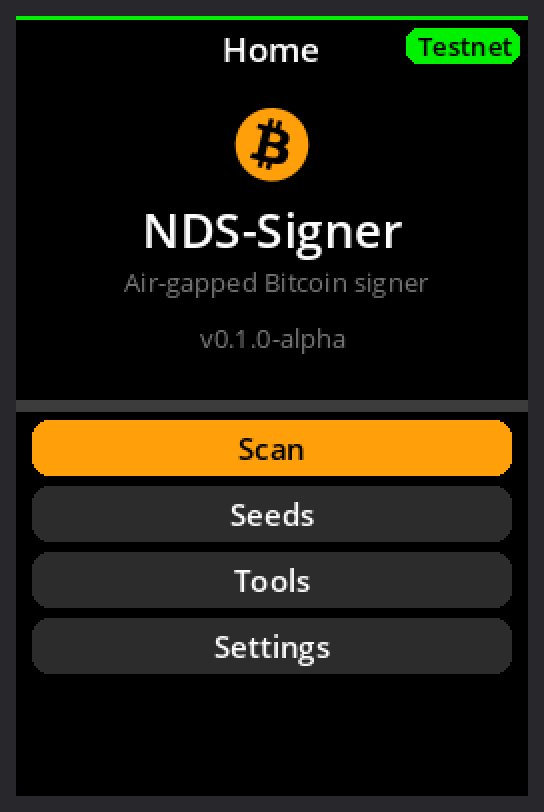
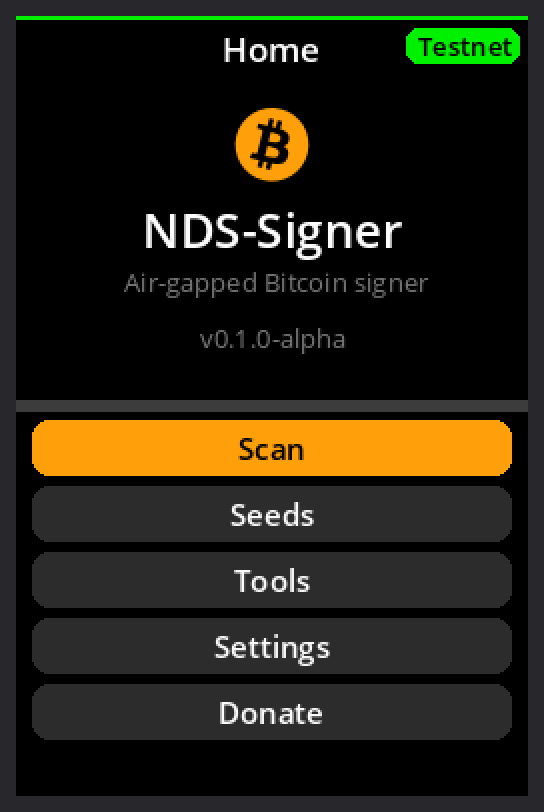
Donate on the Home menu, not in Settings
NDS-Signer's own Home menu (views/nds_views.py, UI_OVERRIDES of upstream's
view.MainMenuView) adds Donate at the end; upstream's Settings > Donate is
hidden. README screenshots updated.

Changed region(s): [[0.0312, 0.8313, 0.9688, 0.9236]]

diff --git a/tests/host/flow_check.py b/tests/host/flow_check.py
@@ -673,7 +673,7 @@ def run_battery_flow(prefix):
 
 
 def run_donate_flow():
-    """Settings -> Donate: the Bitcoin QR code encodes NDS-Signer's address
+    """Home -> Donate (not in Settings any more): the Bitcoin QR code encodes NDS-Signer's address
     (BIP-21), a tap on Lightning shows the Lightning address and its LNURL
     as a QR code; all exactly as published in README.md."""
     from seedsigner.gui.screens.settings_screens import (DONATE_LIGHTNING, DONATE_LNURL,
@@ -695,18 +695,31 @@ def run_donate_flow():
 
     def check():
         published = all(a in readme for a in (DONATE_ONCHAIN, DONATE_LIGHTNING, DONATE_LNURL))
-        ok = state.get("btc") and state.get("ln") and published
+        not_setting = state.get("page1") and state.get("page2")
+        ok = state.get("btc") and state.get("ln") and published and not_setting and state.get("home")
         RESULT["donate"] = ok
-        print("ok  " if ok else "FAIL", "donate flow: bitcoin %s, lightning %s, same as README %s"
-              % (state.get("btc"), state.get("ln"), published))
+        print("ok  " if ok else "FAIL", "donate flow (Home): bitcoin %s, lightning %s, same as README "
+              "%s, not in Settings %s, back to Home %s" % (state.get("btc"), state.get("ln"),
+                                                           published, not_setting, state.get("home")))
 
-    # Donate is the last but one option of Settings: up twice from the first
+    def home():  # Back from Donate returns to Home
+        state["home"] = "Scan" in "".join(op[3] for op in nds._dl[1] if op[0] == "text")
+
+    def no_donate_in_settings():
+        bottom = "".join(op[3] for op in nds._dl[1] if op[0] == "text")
+        nds._events[0:0] = [("key", nds.KEY_UP), ("wait", 2), ("call", page_two)]
+        state["page1"] = "Donate" not in bottom
+
+    def page_two():
+        bottom = "".join(op[3] for op in nds._dl[1] if op[0] == "text")
+        state["page2"] = "Donate" not in bottom and "Version" in bottom
+
     events = [("call", dump), ("tap_label", "Settings"), ("key", 0), ("wait", 2),
-              ("key", nds.KEY_UP), ("wait", 2), ("key", nds.KEY_UP), ("wait", 2),
-              ("key", nds.KEY_A)]
+              ("call", no_donate_in_settings), ("wait", 4), ("key", nds.KEY_B), ("wait", 2),
+              ("call", dump), ("tap_label", "Donate"), ("key", 0)]
     events += [("wait", 2), ("call", dump), ("call", onchain), ("tap_label", "Lightning"),
                ("wait", 4), ("key", 0), ("wait", 2), ("call", dump), ("call", lightning),
-               ("call", check), ("call", stop)]
+               ("key", nds.KEY_B), ("wait", 2), ("call", home), ("call", check), ("call", stop)]
     nds.sim_script(events)
     Controller.get_instance().start(initial_destination=Destination(MainMenuView))
 

diff --git a/mpy/overlay/seedsigner/views/nds_views.py b/mpy/overlay/seedsigner/views/nds_views.py
@@ -1,0 +1,48 @@
+# NDS-Signer - its own Home menu: upstream's, plus Donate at the end (a
+# donation is not a setting). tools/upy_transform.py (UI_OVERRIDES) rebinds
+# upstream's view.MainMenuView to the one here.
+from gettext import gettext as _
+
+from seedsigner.gui.components import SeedSignerIconConstants
+from seedsigner.gui.screens.screen import RET_CODE__POWER_BUTTON, ButtonOption
+from seedsigner.views.view import BackStackView, Destination, PowerOptionsView, View
+
+
+class MainMenuView(View):
+    SCAN = ButtonOption("Scan", SeedSignerIconConstants.SCAN)
+    SEEDS = ButtonOption("Seeds", SeedSignerIconConstants.SEEDS)
+    TOOLS = ButtonOption("Tools", SeedSignerIconConstants.TOOLS)
+    SETTINGS = ButtonOption("Settings", SeedSignerIconConstants.SETTINGS)
+    DONATE = ButtonOption("Donate")
+
+    def run(self):
+        from seedsigner.gui.screens.screen import MainMenuScreen
+        button_data = [self.SCAN, self.SEEDS, self.TOOLS, self.SETTINGS, self.DONATE]
+        selected_menu_num = self.run_screen(MainMenuScreen, title=_("Home"),
+                                            button_data=button_data)
+        if selected_menu_num == RET_CODE__POWER_BUTTON:
+            return Destination(PowerOptionsView)
+        choice = button_data[selected_menu_num]
+        if choice == self.SCAN:
+            from seedsigner.views.scan_views import ScanView
+            return Destination(ScanView)
+        if choice == self.SEEDS:
+            from seedsigner.views.seed_views import SeedsMenuView
+            return Destination(SeedsMenuView)
+        if choice == self.TOOLS:
+            from seedsigner.views.tools_views import ToolsMenuView
+            return Destination(ToolsMenuView)
+        if choice == self.SETTINGS:
+            from seedsigner.views.settings_views import SettingsMenuView
+            return Destination(SettingsMenuView)
+        return Destination(DonateView)
+
+
+class DonateView(View):
+    """NDS-Signer's donation addresses (settings_screens.DonateScreen); Back
+    returns to Home."""
+
+    def run(self):
+        from seedsigner.gui.screens.settings_screens import DonateScreen
+        self.run_screen(DonateScreen)
+        return Destination(BackStackView)

diff --git a/mpy/overlay/seedsigner/gui/screens/screen.py b/mpy/overlay/seedsigner/gui/screens/screen.py
@@ -175,15 +175,23 @@ class ButtonListScreen(BaseTopNavScreen):
     def top_lines(self):
         return []
 
-    # Upstream options that make no sense on a DS: "I/O test" (SeedSigner's
-    # joystick and keys) and "Persistent settings" (NDS-Signer never writes
-    # to the SD card). They are left out; the indices returned stay upstream's.
-    HIDDEN_OPTIONS = ("I/O test", "Persistent settings")
+    # Upstream options left out (the indices returned stay upstream's): in
+    # Settings, "I/O test" (SeedSigner's joystick and keys) and "Donate"
+    # (NDS-Signer's is on Home, views/nds_views.py); "Persistent settings"
+    # (NDS-Signer never writes to the SD card).
+    HIDDEN_LABELS = ("Persistent settings",)
+
+    @staticmethod
+    def _hidden_options():
+        from seedsigner.views.settings_views import SettingsMenuView
+        return (SettingsMenuView.IO_TEST, SettingsMenuView.DONATE)
 
     def _run(self):
         buttons = self.button_data or []
+        hidden = self._hidden_options()
         shown = [i for i, b in enumerate(buttons)
-                 if not (isinstance(b, ButtonOption) and b.button_label in self.HIDDEN_OPTIONS)]
+                 if not (isinstance(b, ButtonOption) and (b.button_label in self.HIDDEN_LABELS
+                                                          or any(b is h for h in hidden)))]
         checked = [shown.index(i) for i in (getattr(self, "checked_buttons", None) or [])
                    if i in shown]
         selected = self.selected_button or 0

diff --git a/tools/upy_transform.py b/tools/upy_transform.py
@@ -177,6 +177,7 @@ IMPORT_REPLACEMENTS = {
 # lazily (inside run()), so every Destination gets NDS-Signer's class.
 UI_OVERRIDES = {
     "seedsigner/views/tools_views.py": ("seedsigner.views.nds_tools_views", ["ToolsMenuView"]),
+    "seedsigner/views/view.py": ("seedsigner.views.nds_views", ["MainMenuView"]),
 }
 
 

diff --git a/README.md b/README.md
@@ -152,7 +152,7 @@ NDS-Signer is free and has no funding. Donations help keep it going:
 <td align="center"><img src="docs/images/donate-lightning.png" width="180" alt="Lightning"><br><b>Lightning</b><br><code>ndssigner@coinos.io</code><br><sub>LNURL (for wallets without Lightning addresses):<br><code>LNURL1DP68GURN8GHJ7CM0D9HX7UEWD9HJ7TNHV4KXCTTTDEHHWM30D3H82UNVWQHKUERNWD5KWMN9WGQ8XE42</code></sub></td></tr>
 </table>
 
-The same addresses are in the app (*Settings → Donate*). NDS-Signer is built
+The same addresses are in the app (*Home → Donate*). NDS-Signer is built
 on [SeedSigner](https://github.com/SeedSigner/seedsigner): please support it
 too, at [seedsigner.com](https://seedsigner.com).
 

diff --git a/docs/es/LEEME.md b/docs/es/LEEME.md
@@ -94,7 +94,7 @@ siga adelante:
 <td align="center"><img src="../images/donate-lightning.png" width="180" alt="Lightning"><br><b>Lightning</b><br><code>ndssigner@coinos.io</code><br><sub>LNURL (para carteras sin direcciones Lightning):<br><code>LNURL1DP68GURN8GHJ7CM0D9HX7UEWD9HJ7TNHV4KXCTTTDEHHWM30D3H82UNVWQHKUERNWD5KWMN9WGQ8XE42</code></sub></td></tr>
 </table>
 
-Las mismas direcciones están en la aplicación (*Ajustes → Donar*).
+Las mismas direcciones están en la aplicación (*menú principal → Donar*).
 NDS-Signer está hecho sobre [SeedSigner](https://github.com/SeedSigner/seedsigner):
 apóyalo también en [seedsigner.com](https://seedsigner.com).
 
